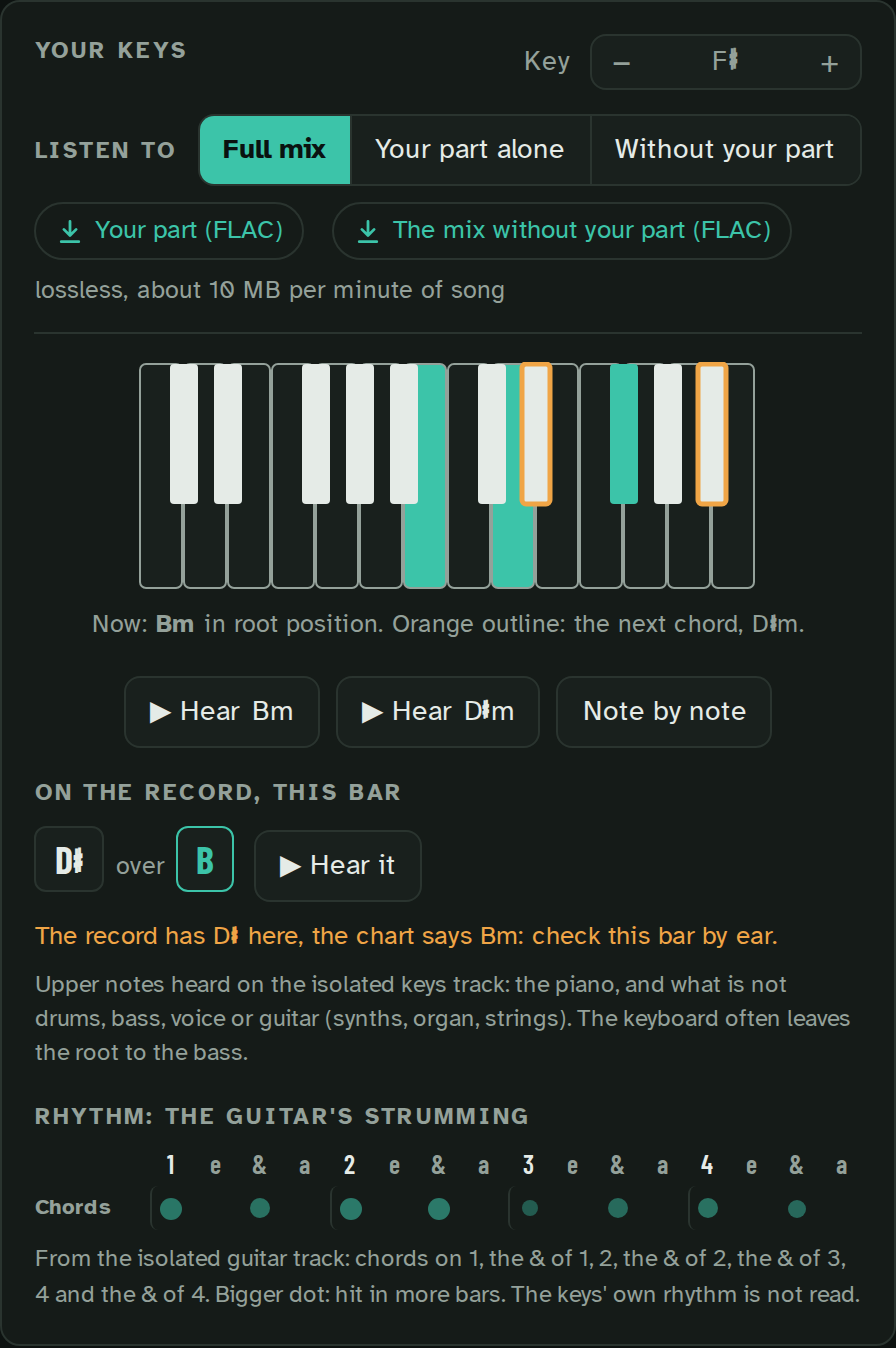
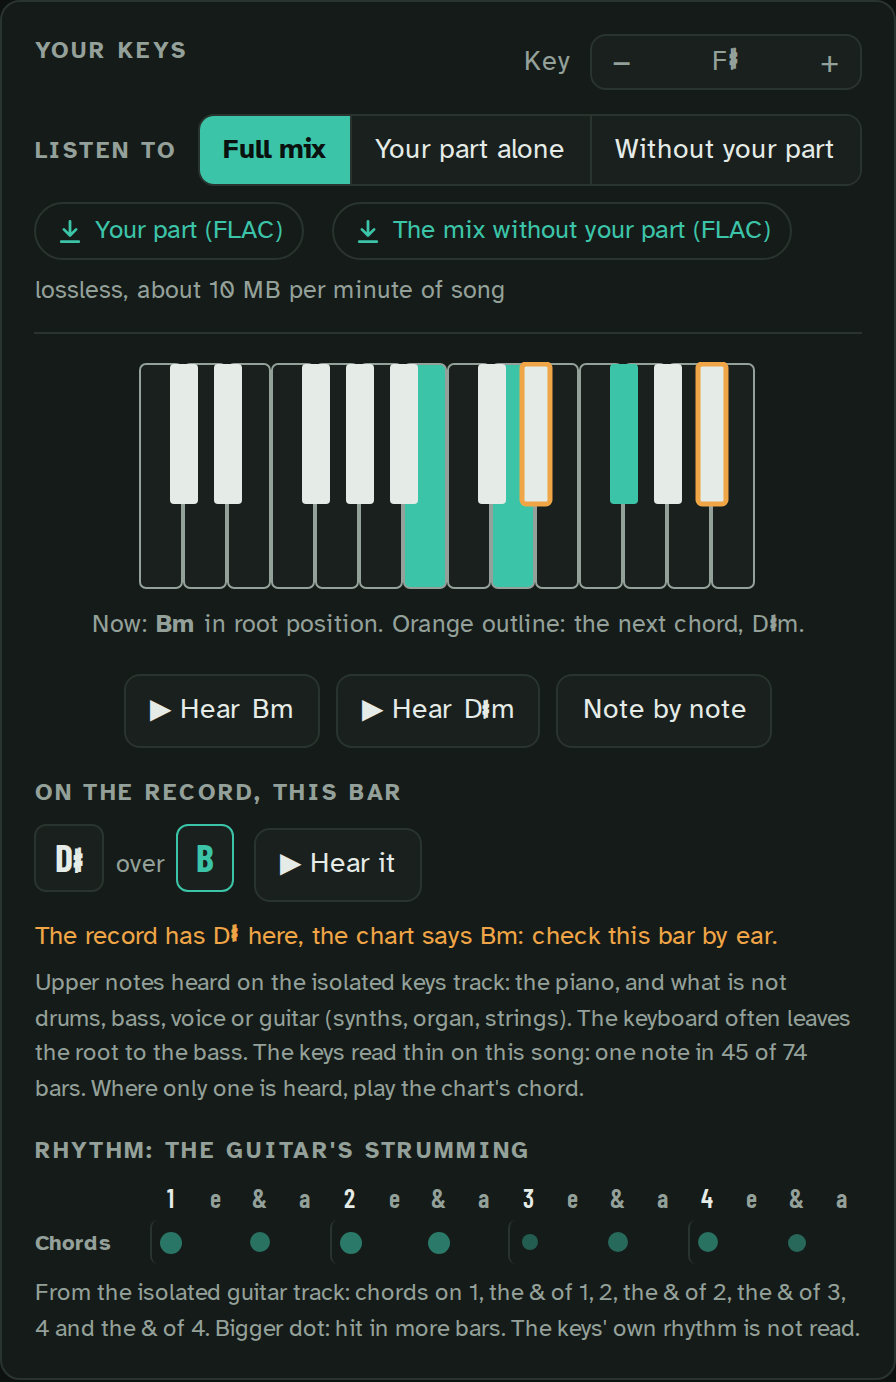
fix(page): the keys panel's readings: one root per bar, thirds spelled as thirds, a quiet thin-keys note

diff --git a/src/woodshed/page/assets/js/views/desk.js b/src/woodshed/page/assets/js/views/desk.js
@@ -332,14 +332,20 @@
         const pcs = parts.voicings[u] || [];
         // The reading checked against the chart (spec 015): nothing heard, the root alone, or the other third.
         const verdict = I.voicingVerdict(cur, song.bars[u].chords, pcs);
-        const named = (pc) => chordNode(song.noteName(pc, s.transpose, song.regionOf(u)));
+        // The other third is spelled as a third of the chart's root as displayed (A: C sharp, not D flat), its
+        // chip with it; the other notes in the bar's key region.
+        const other = verdict && verdict.other !== undefined ? verdict.other : null;
+        const asThird = other === null ? null : I.thirdName(song.noteName(cur.pc, s.transpose, cur.region), I.mod12(other - cur.pc));
+        const named = (pc) => chordNode(asThird && I.mod12(pc) === other ? asThird : song.noteName(pc, s.transpose, song.regionOf(u)));
+        // Said once for the song: one note read in a quarter of the bars or more (spec 015, PR review).
+        const thin = I.keysThin(parts.voicings, song.bars.length);
         const hear = h("button", { type: "button", class: "btn", "data-testid": "hear-voicing", style: { marginLeft: "4px" }, onclick: () => app.hearVoicing(u) }, W.t("▶ Hear it"));
         out.push(
           h("div", { class: "label subhead" }, W.t("On the record, this bar")),
           verdict === "none"
             ? h("p", { class: "hint voicing-said", "data-testid": "voicing-none" }, W.t("No upper notes heard on the record in this bar."))
             : verdict === "root"
-              ? h("div", { class: "chips-row" }, h("span", { class: "hint", "data-testid": "voicing-root" }, W.t("Only the root heard on the record here: play the chord above.")), hear)
+              ? h("div", { class: "chips-row" }, h("span", { class: "hint", "data-testid": "voicing-root" }, W.t("Only the root heard here.")), hear)
               : h(
                   "div",
                   { class: "chips-row" },
@@ -347,12 +353,17 @@
                   cur.pc >= 0 ? [h("span", { class: "hint" }, W.t("over")), h("span", { class: "pc-chip bassnote" }, chordNode(song.noteName(cur.pc, s.transpose, cur.region)))] : null,
                   hear,
                 ),
-          verdict && verdict.other !== undefined
-            ? h("p", { class: "voicing-check", "data-testid": "voicing-check" }, W.nodes(W.t("The record has {note} here, the chart says {chord}: check this bar by ear."), { note: named(verdict.other), chord: chordNode(app.nameFor(cur, 0, s)) }))
+          other !== null
+            ? h("p", { class: "voicing-check", "data-testid": "voicing-check" }, W.nodes(W.t("The record has {note} here, the chart says {chord}: check this bar by ear."), { note: named(other), chord: chordNode(app.nameFor(cur, 0, s)) }))
             : null,
-          h("p", { class: "src-note" }, app.sharedStem
-            ? W.t("Upper notes heard on the isolated keys and guitar track. The keyboard often leaves the root to the bass.")
-            : W.t("Upper notes heard on the isolated keys track: the piano, and what is not drums, bass, voice or guitar (synths, organ, strings). The keyboard often leaves the root to the bass.")),
+          h(
+            "p",
+            { class: "src-note" },
+            app.sharedStem
+              ? W.t("Upper notes heard on the isolated keys and guitar track. The keyboard often leaves the root to the bass.")
+              : W.t("Upper notes heard on the isolated keys track: the piano, and what is not drums, bass, voice or guitar (synths, organ, strings). The keyboard often leaves the root to the bass."),
+            thin ? [" ", h("span", { "data-testid": "keys-thin" }, W.t("The keys read thin on this song: one note in {n} of {m} bars. Where only one is heard, play the chart's chord.", thin))] : null,
+          ),
           comping("keys"),
         );
       }

diff --git a/src/woodshed/page/assets/js/core/instruments.js b/src/woodshed/page/assets/js/core/instruments.js
@@ -144,13 +144,13 @@
   }
 
   // What the keys heard on the record in a bar (`pcs`, before transposition) says against the chart (spec 015):
-  // "none" (no upper note), "root" (the chord's root alone), { other } (the third the chart's chord does not
+  // "none" (no upper note), "root" (the root of the bar's one chord alone), { other } (the third the chart's chord does not
   // have, without its own), or null (a reading to show as heard). The third is only checked on a bar of one
   // chord that has exactly one third (no sus, 5 or no chord).
   function voicingVerdict(cur, chords, pcs) {
     if (!pcs.length) return "none";
     if (cur.pc < 0) return null;
-    if (pcs.length === 1 && mod12(pcs[0]) === mod12(cur.pc)) return "root";
+    if (chords.length === 1 && pcs.length === 1 && mod12(pcs[0]) === mod12(cur.pc)) return "root";
     const quality = CHORDS.qualities[cur.quality];
     if (chords.length !== 1 || !quality) return null;
     const tones = quality.intervals.map(mod12);
@@ -159,6 +159,24 @@
     const heard = pcs.map(mod12);
     const other = mod12(cur.pc + 7 - third);
     return heard.includes(other) && !heard.includes(mod12(cur.pc + third)) ? { other } : null;
+  }
+
+  // The note `semis` (3 or 4) above a spelled root, spelled as a third: the root's letter plus two letters
+  // ("A", 4 -> "C#", not "Db"). Null when that takes a double sharp or flat (D# -> F##): the caller names it plainly.
+  const LETTERS = "CDEFGAB";
+  const NATURAL = { C: 0, D: 2, E: 4, F: 5, G: 7, A: 9, B: 11 };
+  function thirdName(root, semis) {
+    const letter = LETTERS[(LETTERS.indexOf(root[0]) + 2) % 7];
+    const sign = root[1] === "#" ? 1 : root[1] === "b" ? -1 : 0;
+    const off = mod12(NATURAL[root[0]] + sign + semis - NATURAL[letter]);
+    return off === 0 ? letter : off === 1 ? letter + "#" : off === 11 ? letter + "b" : null;
+  }
+
+  // The keys read thin on a song (spec 015, PR review): one note in a quarter of its bars or more, as { n, m },
+  // else null. Said once for the song instead of an instruction on every such bar.
+  function keysThin(voicings, m) {
+    const n = voicings.filter((pcs) => pcs && pcs.length === 1).length;
+    return m > 0 && n * 4 >= m ? { n, m } : null;
   }
 
   // Four-string bass frets for a bar of sixteenths: the lowest comfortable string near the previous fret.
@@ -246,6 +264,6 @@
     // A chord's slash bass moved by t semitones, or null.
     bassOf: (c, t) => (isNone(c.bass) ? null : c.bass + (t || 0)),
     STRINGS, VOICES, tableShape, barreShape, movableShape, openOrBarre, triadOf, triadCandidates, funkVoicings,
-    fingeredMidi, keysMidi, voicingVerdict, bassFrets, counts, bestTranspose, hitsText, grooveHits, playedText,
+    fingeredMidi, keysMidi, voicingVerdict, thirdName, keysThin, mod12, bassFrets, counts, bestTranspose, hitsText, grooveHits, playedText,
   };
 })();

diff --git a/src/woodshed/page/assets/js/core/i18n-fr.js b/src/woodshed/page/assets/js/core/i18n-fr.js
@@ -347,7 +347,7 @@
     "Barre chords": "Accords barrés",
     "Funk triads": "Triades funk",
     "{tip} Click a shape to hear it.": "{tip} Clique sur une position pour l'entendre.",
-    "Rhythm: the guitar's strumming": "Rythme : le grattage de la guitare",
+    "Rhythm: the guitar's strumming": "Rythme : celui de la guitare",
     "Rhythm: when the chords hit": "Rythme : quand tombent les accords",
     Chords: "Accords",
     "From the isolated keys and guitar track: chords on {hits}. Bigger dot: hit in more bars.":
@@ -376,7 +376,9 @@
     over: "sur",
     "▶ Hear it": "▶ Écouter",
     "No upper notes heard on the record in this bar.": "Aucune note du haut entendue sur le disque dans cette mesure.",
-    "Only the root heard on the record here: play the chord above.": "Seule la fondamentale s'entend sur le disque ici : joue l'accord au-dessus.",
+    "Only the root heard here.": "Seule la fondamentale s'entend ici.",
+    "The keys read thin on this song: one note in {n} of {m} bars. Where only one is heard, play the chart's chord.":
+      "Les claviers s'entendent peu sur ce morceau : une seule note dans {n} mesures sur {m}. Là où une seule s'entend, joue l'accord de la grille.",
     "The record has {note} here, the chart says {chord}: check this bar by ear.":
       "Le disque a {note} ici, la grille dit {chord} : vérifie cette mesure à l'oreille.",
     "Upper notes heard on the isolated keys and guitar track. The keyboard often leaves the root to the bass.":

diff --git a/tests/page/test_keys_panel.py b/tests/page/test_keys_panel.py
@@ -83,16 +83,22 @@ def test_with_no_keys_heard_the_keys_panel_still_names_the_guitars_strumming(ope
     expect(desk.locator(".src-note").last).to_have_text(GUITAR_NOTE)
 
 
-def test_the_guitar_panel_and_the_other_reads_keep_their_rhythm_heading(open_page: Any) -> None:
+def test_the_guitar_panel_keeps_its_rhythm_heading(open_page: Any) -> None:
     o = open_page("pop", six=True)
     o.js("Woodshed.app.setInstrument('guitar')")
     desk = o.page.get_by_test_id("desk")
     expect(rhythm_head(desk)).to_have_text("Rhythm: when the chords hit")
     expect(desk).not_to_contain_text("The keys' own rhythm is not read.")
+
+
+def test_the_strumming_read_from_the_keys_keeps_its_rhythm_heading(open_page: Any) -> None:
     o = open_page("pop", six=True, guitar=False)  # the strumming read from the keys themselves
     desk = keys_at(o, 0)
     expect(rhythm_head(desk)).to_have_text("Rhythm: when the chords hit")
     expect(desk).not_to_contain_text("The keys' own rhythm is not read.")
+
+
+def test_four_stems_keep_their_rhythm_heading(open_page: Any) -> None:
     o = open_page("pop")  # four stems: keys and guitar are one track
     desk = keys_at(o, 0)
     expect(rhythm_head(desk)).to_have_text("Rhythm: when the chords hit")
@@ -103,7 +109,7 @@ def test_the_guitar_panel_and_the_other_reads_keep_their_rhythm_heading(open_pag
 def test_the_guitars_strumming_in_french(open_page: Any) -> None:
     o = open_page("pop", six=True)
     desk = keys_at(o, 0)
-    assert rhythm_head(desk).text_content() == f"Rythme{NBSP}: le grattage de la guitare"
+    assert rhythm_head(desk).text_content() == f"Rythme{NBSP}: celui de la guitare"
     note = str(desk.locator(".src-note").last.text_content())
     assert note.startswith(f"D'après la piste séparée de la guitare{NBSP}: accords sur ")
     assert note.endswith(f"{NBSP}: frappé dans plus de mesures. Le rythme propre des claviers n'est pas lu.")
@@ -158,6 +164,7 @@ def test_the_reading_verdict_of_a_bar(open_page: Any) -> None:
     assert verdict(o, [(9, "m")], []) == "none"
     assert verdict(o, [(-1, "")], []) == "none"
     assert verdict(o, [(7, "")], [7]) == "root"
+    assert verdict(o, [(7, ""), (2, "")], [7]) is None  # two chords: the playhead's root is not the bar's
     assert verdict(o, [(9, "m")], [1, 4]) == {"other": 1}  # Am, a major third heard
     assert verdict(o, [(11, "m7")], [3, 9]) == {"other": 3}  # Bm7, D sharp heard
     assert verdict(o, [(5, "")], [8, 0]) == {"other": 8}  # F, a minor third heard
@@ -179,11 +186,11 @@ def test_no_upper_note_heard_says_so_without_chips(open_page: Any) -> None:
     expect(desk.get_by_test_id("hear-voicing")).to_have_count(0)
 
 
-def test_only_the_root_heard_says_to_play_the_chord_above(open_page: Any) -> None:
+def test_only_the_root_heard_is_a_quiet_statement(open_page: Any) -> None:
     o = open_page("pop", variant="keys-readings")
     desk = keys_at(o, 1)
-    root = "Only the root heard on the record here: play the chord above."
-    expect(desk.get_by_test_id("voicing-root")).to_have_text(root)
+    expect(desk.get_by_test_id("voicing-root")).to_have_text("Only the root heard here.")
+    expect(desk.get_by_test_id("voicing-root")).to_have_class(re.compile(r"\bhint\b"))
     expect(desk.locator(".pc-chip")).to_have_count(0)  # no "G over G"
     expect(desk.get_by_test_id("hear-voicing")).to_be_visible()
 
@@ -191,24 +198,39 @@ def test_only_the_root_heard_says_to_play_the_chord_above(open_page: Any) -> Non
 def test_the_other_third_heard_is_said_under_the_chips(open_page: Any) -> None:
     o = open_page("pop", variant="keys-readings")
     desk = keys_at(o, 2)
-    expect(desk.get_by_test_id("voicing-check")).to_have_text(check_line("D♭", "Am"))
+    # The major third of A is C sharp, not D flat: a third is spelled as a third of the chart's root.
+    expect(desk.get_by_test_id("voicing-check")).to_have_text(check_line("C♯", "Am"))
     expect(desk.locator(".chips-row .pc-chip")).to_have_count(3)  # the chips as heard, over the root
+    expect(desk.locator(".chips-row .pc-chip").first).to_have_text("C♯")  # the chip agrees with the line
     expect(desk.get_by_test_id("hear-voicing")).to_be_visible()
     desk = keys_at(o, 3)
     expect(desk.get_by_test_id("voicing-check")).to_have_text(check_line("A♭", "F"))
+    expect(desk.locator(".chips-row .pc-chip").first).to_have_text("A♭")
 
 
 def test_the_other_third_follows_the_transposition(open_page: Any) -> None:
     o = open_page("pop", variant="keys-readings")
     o.js("Woodshed.app.transposeTo(2)")  # compared before transposition, said in the new key
     desk = keys_at(o, 2)
-    expect(desk.get_by_test_id("voicing-check")).to_have_text(check_line("E♭", "Bm"))
+    expect(desk.get_by_test_id("voicing-check")).to_have_text(check_line("D♯", "Bm"))
+    expect(desk.locator(".chips-row .pc-chip").first).to_have_text("D♯")
 
 
-def test_the_other_third_is_spelled_in_its_key_region(open_page: Any) -> None:
+def test_the_other_third_is_spelled_from_the_chords_own_root(open_page: Any) -> None:
     o = open_page("lift", variant="keys-lift")
     desk = keys_at(o, 17)
     expect(desk.get_by_test_id("voicing-check")).to_have_text(check_line("G♭", "E♭"))
+    expect(desk.locator(".chips-row .pc-chip").first).to_have_text("G♭")
+
+
+def test_a_third_is_two_letters_above_the_root(open_page: Any) -> None:
+    o = open_page("pop")
+    third = "([root, semis]) => Woodshed.instruments.thirdName(root, semis)"
+    cases = {("A", 4): "C#", ("B", 4): "D#", ("F", 3): "Ab", ("Eb", 3): "Gb", ("C#", 3): "E", ("Bb", 4): "D"}
+    for (root, semis), name in cases.items():
+        assert o.js(third, [root, semis]) == name, (root, semis)
+    assert o.js(third, ["D#", 4]) is None  # F double sharp: the caller falls back to the plain name
+    assert o.js(third, ["Gb", 3]) is None  # B double flat
 
 
 @pytest.mark.parametrize("bar", [4, 5, 6, 7], ids=["no-chord", "sus4", "two-chords", "both-thirds"])
@@ -235,13 +257,53 @@ def test_the_readings_in_french(open_page: Any) -> None:
     o = open_page("pop", variant="keys-readings")
     said = {
         0: ("voicing-none", "Aucune note du haut entendue sur le disque dans cette mesure."),
-        1: ("voicing-root", f"Seule la fondamentale s'entend sur le disque ici{NBSP}: joue l'accord au-dessus."),
-        2: ("voicing-check", f"Le disque a D♭ ici, la grille dit Am{NBSP}: vérifie cette mesure à l'oreille."),
+        1: ("voicing-root", "Seule la fondamentale s'entend ici."),
+        2: ("voicing-check", f"Le disque a C♯ ici, la grille dit Am{NBSP}: vérifie cette mesure à l'oreille."),
     }
     for bar, (testid, text) in said.items():
         desk = keys_at(o, bar)
         expect(desk.get_by_test_id(testid)).to_be_visible()
         assert desk.get_by_test_id(testid).text_content() == text
+
+
+# The keys read thin: said once for the song, under "On the record", from a quarter of the bars.
+
+
+def thin_line(n: int, m: int) -> str:
+    return (
+        f"The keys read thin on this song: one note in {n} of {m} bars."
+        " Where only one is heard, play the chart's chord."
+    )
+
+
+def test_keys_read_thin_on_a_quarter_of_the_bars_is_said_for_the_song(open_page: Any) -> None:
+    o = open_page("pop", variant="keys-thin")
+    m = int(str(o.js("Woodshed.current.bars.length")))
+    n = (m + 3) // 4
+    for bar in (0, m - 1):  # the same note on a one-note bar and on a full one
+        desk = keys_at(o, bar)
+        expect(desk.get_by_test_id("keys-thin")).to_have_count(1)
+        expect(desk.get_by_test_id("keys-thin")).to_have_text(thin_line(n, m))
+        expect(desk.get_by_test_id("keys-thin").locator("xpath=..")).to_have_class(re.compile(r"\bsrc-note\b"))
+
+
+@pytest.mark.parametrize("variant", ["keys-thin-below", "keys-readings"])
+def test_keys_read_thin_below_a_quarter_of_the_bars_says_nothing(open_page: Any, variant: str) -> None:
+    o = open_page("pop", variant=variant)
+    desk = keys_at(o, 1)
+    expect(desk.locator(".chips-row, [data-testid=voicing-root]").first).to_be_visible()
+    expect(desk.get_by_test_id("keys-thin")).to_have_count(0)
+
+
+@french()
+def test_keys_read_thin_in_french(open_page: Any) -> None:
+    o = open_page("pop", variant="keys-thin")
+    m = int(str(o.js("Woodshed.current.bars.length")))
+    desk = keys_at(o, 0)
+    assert desk.get_by_test_id("keys-thin").text_content() == (
+        f"Les claviers s'entendent peu sur ce morceau{NBSP}: une seule note dans {(m + 3) // 4} mesures sur {m}."
+        " Là où une seule s'entend, joue l'accord de la grille."
+    )
 
 
 # R6: French punctuation keeps to its word.

diff --git a/tests/page/conftest.py b/tests/page/conftest.py
@@ -289,6 +289,14 @@ def _keys_after_the_lift(song: dict[str, Any]) -> None:
     song["parts"]["voicings"][17] = [6, 10]
 
 
+def _keys_thin(song: dict[str, Any], below: bool = False) -> None:
+    """The keys read as one note in a quarter of pop's bars (one bar fewer with `below`), the others a triad."""
+    heard = song["parts"]["voicings"]
+    thin = (len(song["bars"]) + 3) // 4 - (1 if below else 0)
+    for u in range(len(song["bars"])):
+        heard[u] = [7] if u < thin else [0, 4, 7]
+
+
 def _lyrics_no_sections(song: dict[str, Any]) -> None:
     _no_sections(song)
     _with_lyrics(song)
@@ -309,6 +317,8 @@ VARIANTS: dict[str, Callable[[dict[str, Any]], None]] = {
     "lyrics-lift-early": _lyrics_before_the_lift,
     "keys-readings": _keys_readings,
     "keys-lift": _keys_after_the_lift,
+    "keys-thin": _keys_thin,
+    "keys-thin-below": lambda song: _keys_thin(song, below=True),
 }  # fmt: skip
 
 

diff --git a/docs/architecture.md b/docs/architecture.md
@@ -265,7 +265,7 @@ With stems, `analysis._parts` reads each stem on a **sixteenth-note grid** (`Gri
 
 All thresholds carry their measurements in comments. The bass tab and the drum groove are marked experimental in the page (README).
 
-The keys panel checks the voicing of the current bar against the chart (`instruments.voicingVerdict`, on pitch classes before transposition): no upper note heard and the chord's root heard alone are said in words instead of chips, and a bar of one chord whose reading holds the other third (a major third on a minor chord or the reverse, without its own) gets a line asking to check the bar by ear. Chords with no third (sus, 5, no chord), readings with both thirds and bars of two chords or more are shown as heard. On a six-stem page the keys panel heads the comping grid read from the guitar "the guitar's strumming": the keys' own rhythm is not read.
+The keys panel checks the voicing of the current bar against the chart (`instruments.voicingVerdict`, on pitch classes before transposition): no upper note heard and, on a bar of one chord, its root heard alone are said in words instead of chips (the root quietly, as a statement), and a bar of one chord whose reading holds the other third (a major third on a minor chord or the reverse, without its own) gets a line asking to check the bar by ear. That third is spelled as a third of the chord's root as displayed (`instruments.thirdName`: the root's letter plus two, so C♯ on A, never D♭), in the line and in its chip; a double sharp or flat falls back to the key region's name. Chords with no third (sus, 5, no chord), readings with both thirds and bars of two chords or more are shown as heard. Once per song, when a quarter of the bars or more read a single note (`instruments.keysThin`), the note under the readings says the keys read thin and to play the chart's chord where only one note is heard. On a six-stem page the keys panel heads the comping grid read from the guitar "the guitar's strumming": the keys' own rhythm is not read.
 
 `vocal_activity` in the same module gives the share of each beat where someone sings. Structure uses it.
 

diff --git a/README.md b/README.md
@@ -71,7 +71,7 @@ never hides inside a lyric line.
 | Keys | Voice |
 |:---:|:---:|
 | <img src="docs/images/desk-keys.png" alt="Keys: the chord on a keyboard and the notes heard on the record, checked against the chart" width="100%"> | <img src="docs/images/desk-voice.png" alt="Voice: the song's range against your voice type" width="100%"> |
-| The chord on a keyboard, the next one outlined, and the notes heard on the record in this bar, checked against the chart: a lone root or a third that disagrees with it is said. | The range of the melody against your voice type, and the key that suits you. |
+| The chord on a keyboard, the next one outlined, and the notes heard on the record in this bar, checked against the chart: a third that disagrees with it is said, and a song where the keys read thin says so once. | The range of the melody against your voice type, and the key that suits you. |
 
 Change the key and everything follows: the chart, the shapes, the tab, the keyboard.
 
